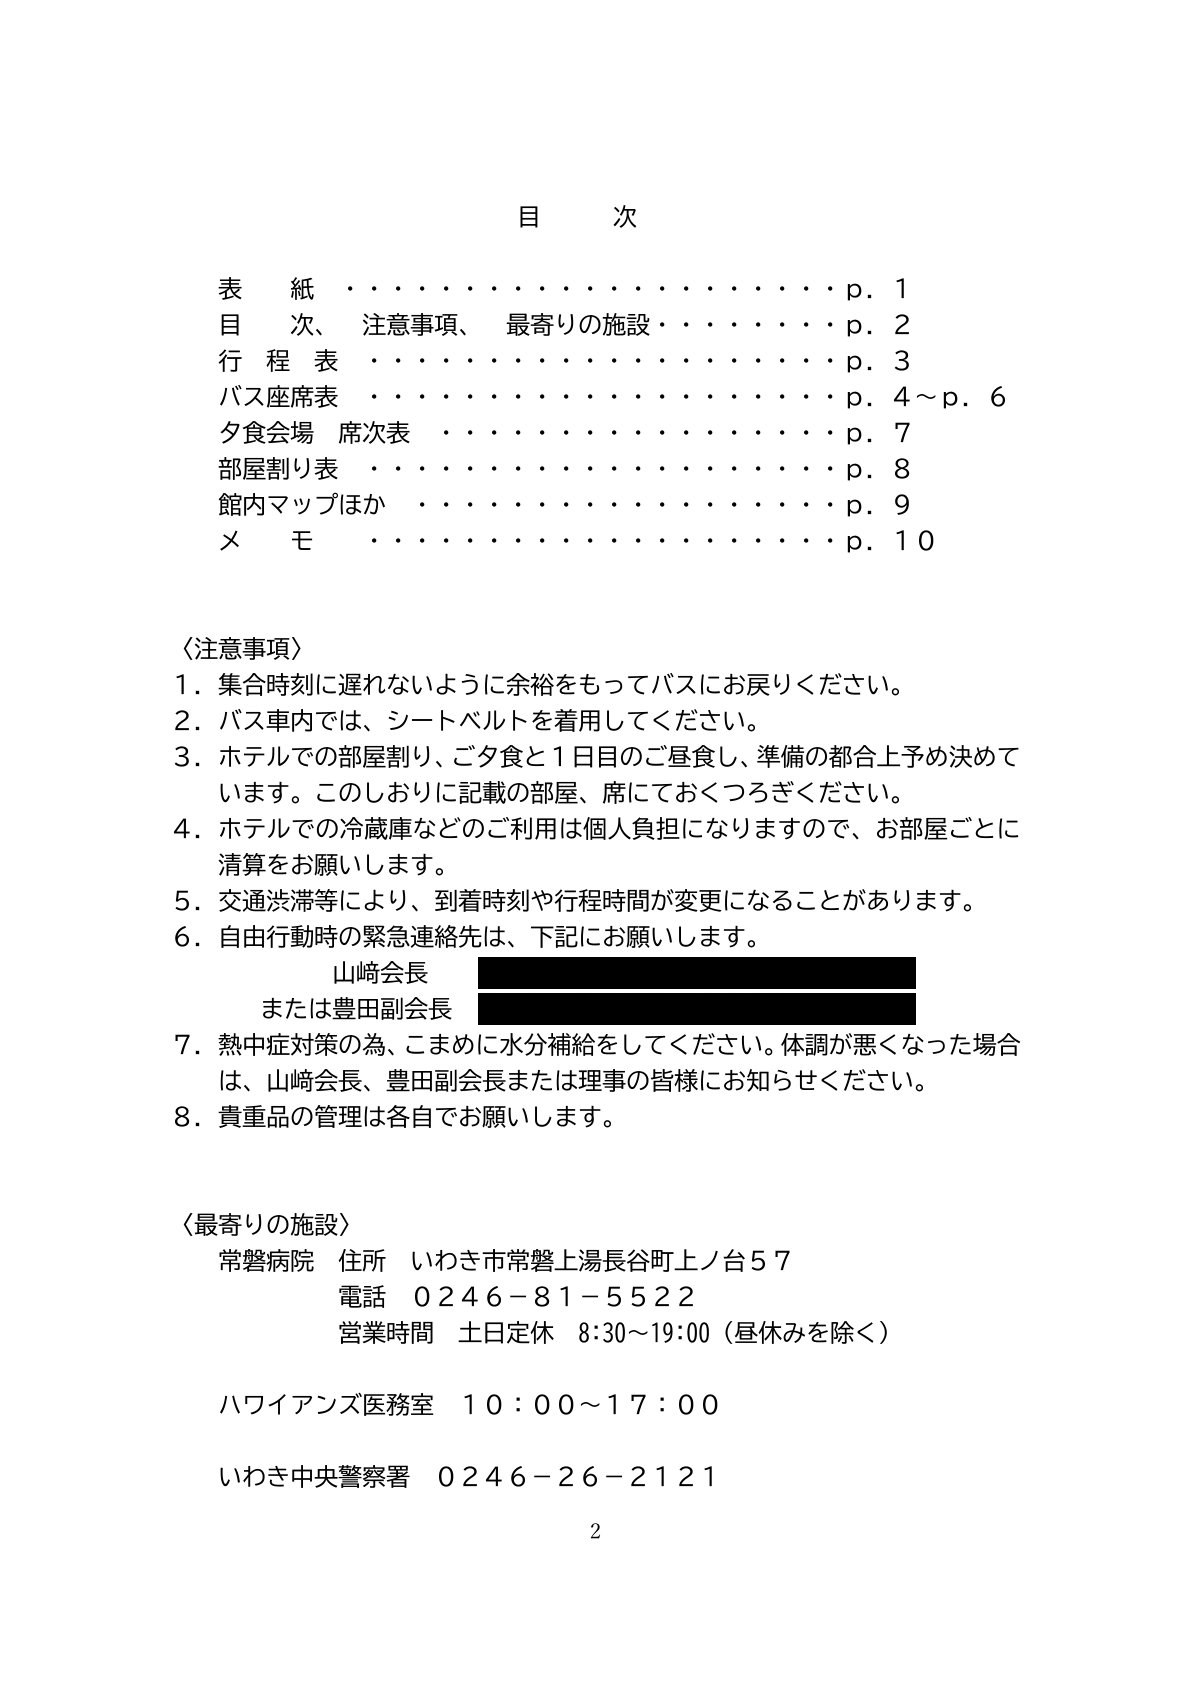
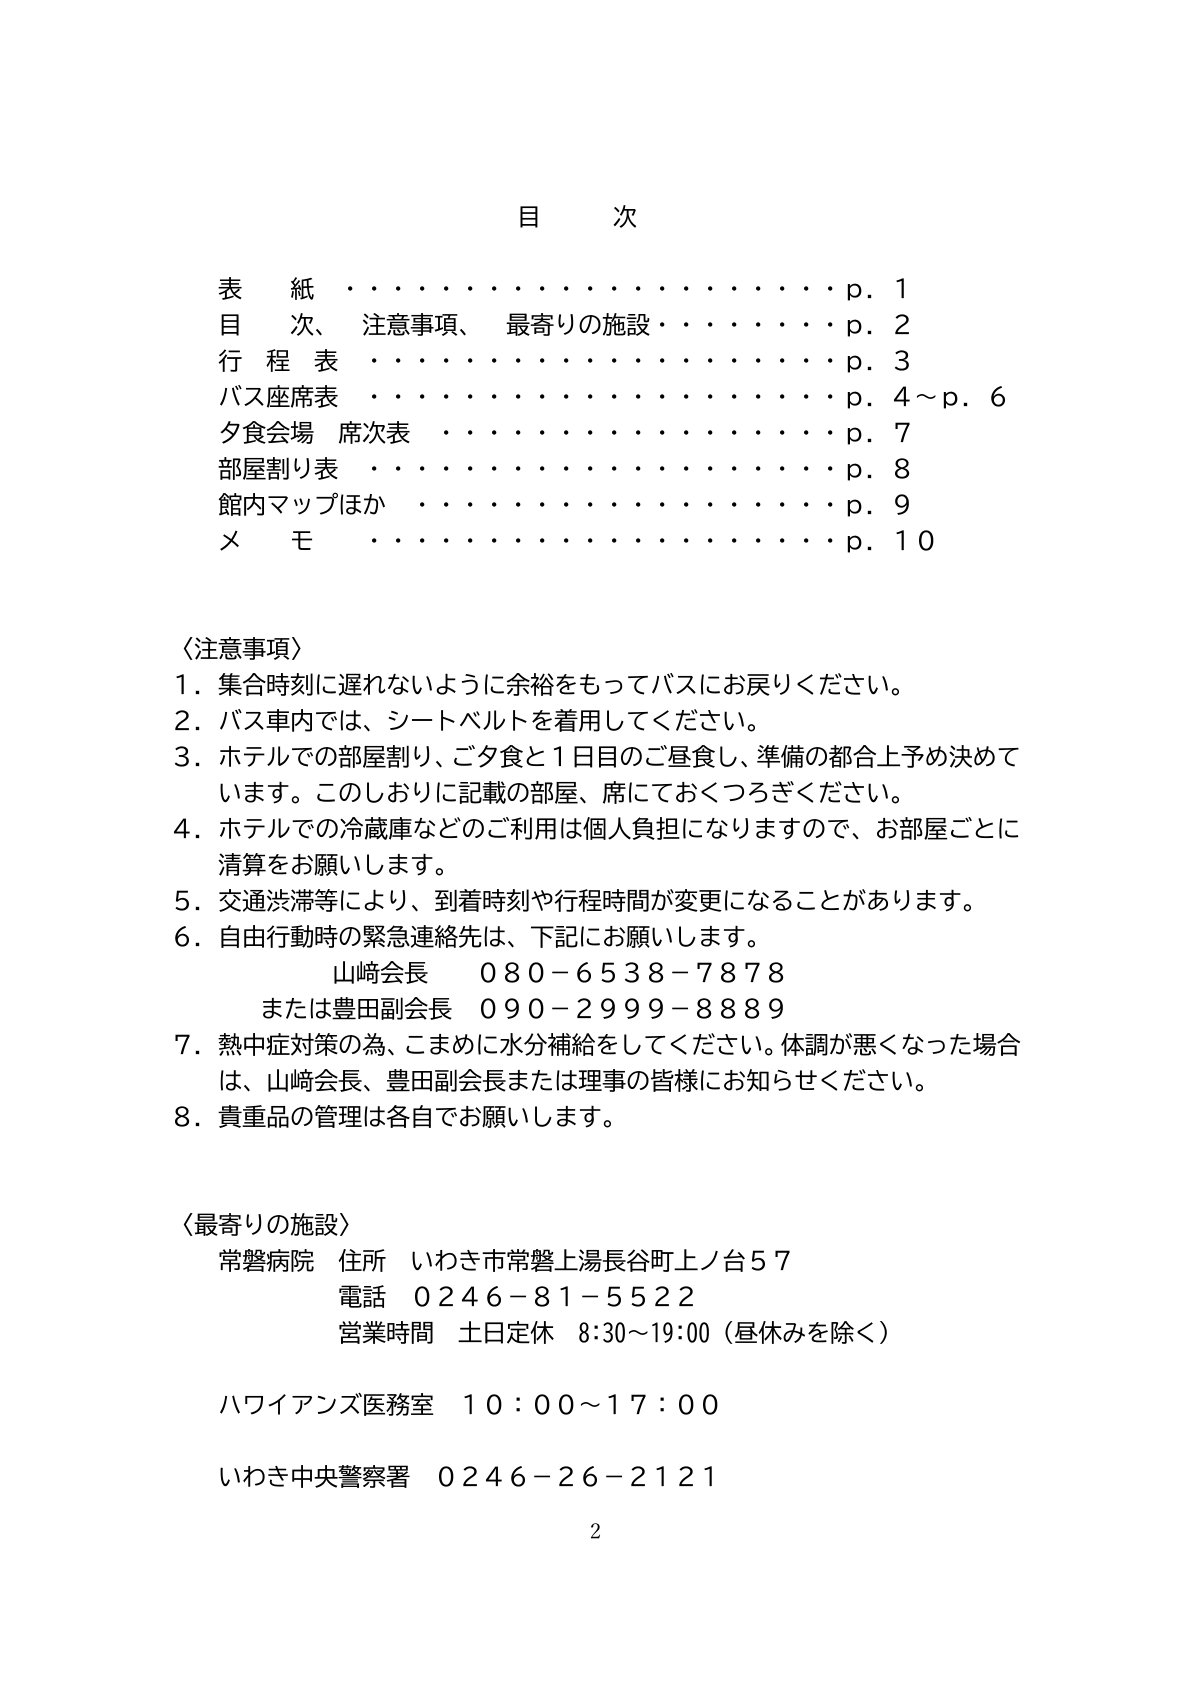
shiori: unmask page 2 (emergency contacts must be visible to members)
Per org instruction: the officers' phone numbers on page 2 are emergency
contacts and must be readable in the booklet. Regenerated p02 from source.
Also mypage title update in preview/app.js.

Changed region(s): [[0.4039, 0.5558, 0.7767, 0.6176]]

diff --git a/preview/app.js b/preview/app.js
@@ -185,7 +185,7 @@ function renderHome(data) {
   const h = data.household || {};
   $app.innerHTML = `
     <section class="screen">
-      <h1>マイページ</h1>
+      <h1>さいたま市里親会 マイページ</h1>
       <p>${escapeHtml(m.name || '')} さん、こんにちは。</p>
       <div class="card">
         <p><strong>世帯ID:</strong> ${escapeHtml(h.householdId || '')}</p>
